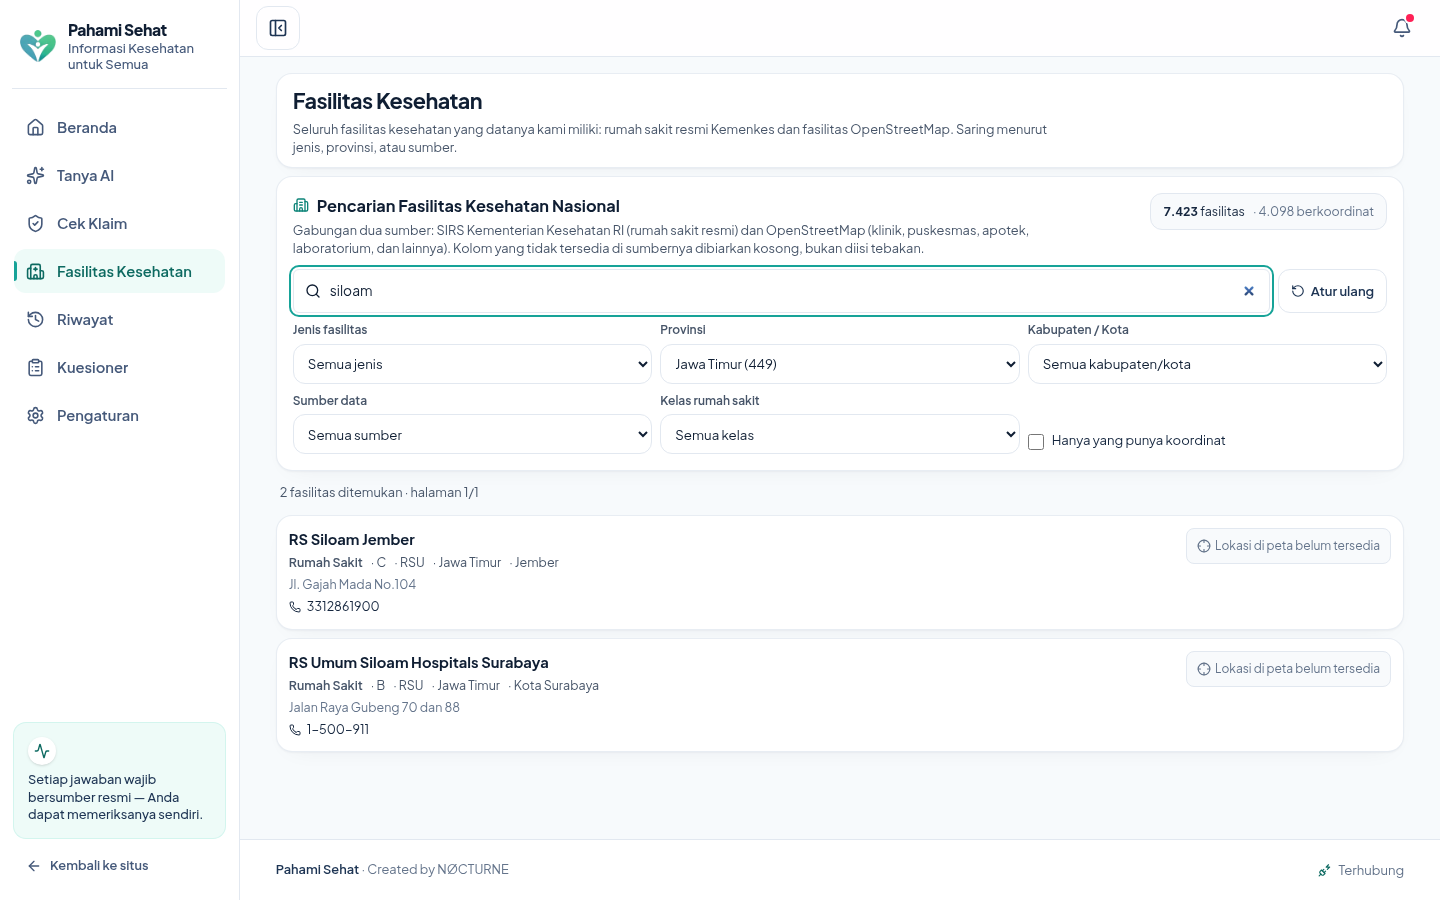
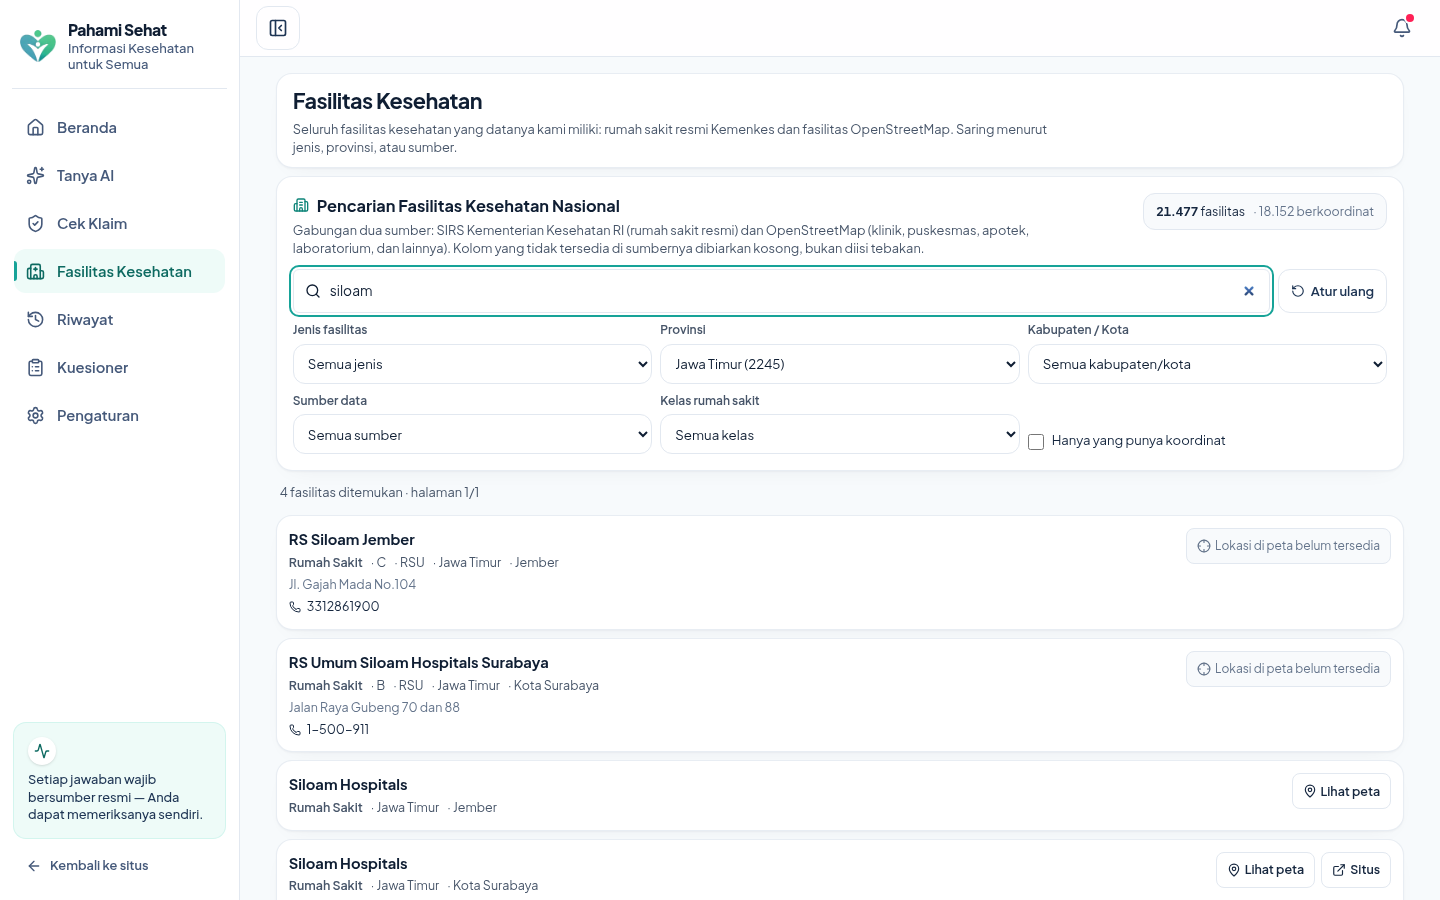
Perbarui angka faskes di README dan tangkapan layar (21.477)
Setelah tarikan nasional dan pemetaan kabupaten, isi database berubah dari
7.423 menjadi 21.477 fasilitas (3.325 RS SIRS + 18.152 OpenStreetMap yang
seluruhnya berkoordinat). Tangkapan layar diambil ulang dari aplikasi yang
berjalan; pencarian siloam kini menyaring 21.477 menjadi 79 hasil.

Perbaiki juga bug paginasi: nomor halaman dulu dibatasi 500 dengan angka
yang sama untuk perHalaman, sehingga meminta halaman 861 dari 860 diam-diam
mengembalikan isi halaman 500.

diff --git a/app/server/faskesNasional.js b/app/server/faskesNasional.js
@@ -22,8 +22,16 @@
 
 import { eksekusi } from './db.js'
 
-/** Batas atas satu halaman. */
-const MAKS_HALAMAN = 500
+/**
+ * Batas atas `perHalaman` (jumlah baris per halaman).
+ *
+ * JANGAN dipakai untuk membatasi NOMOR halaman. Versi sebelumnya memakai satu
+ * angka yang sama untuk keduanya, dan efeknya terukur 8 Nov 2026: pengguna
+ * meminta halaman 861 dari 860, nomornya "dibetulkan" menjadi 500, lalu
+ * server mengirim 25 baris HALAMAN 500 — data yang bukan permintaannya,
+ * tanpa satu pun tanda bahwa permintaannya di luar jangkauan.
+ */
+const MAKS_PER_HALAMAN = 500
 
 const KOLOM = `
   f.id, f.kode_osm, f.kode_rs, f.nama, f.kategori_id, k.label AS kategori,
@@ -150,9 +158,14 @@ export async function cariFaskesNasional({
 
   const where = syarat.length ? `WHERE ${syarat.join(' AND ')}` : ''
 
-  const di = Math.min(Math.max(Number(halaman) || 1, 1), MAKS_HALAMAN)
-  const n = Math.min(Math.max(Number(perHalaman) || 25, 1), MAKS_HALAMAN)
-  const offset = (di - 1) * n
+  /*
+   * Nomor halaman TIDAK dibatasi di sini. Kalau permintaan melewati halaman
+   * terakhir, hasilnya harus KOSONG — bukan dilipat ke halaman lain. `offset`
+   * yang besar cukup dikembalikan sebagai daftar kosong oleh MySQL.
+   */
+  const n = Math.min(Math.max(Number(perHalaman) || 25, 1), MAKS_PER_HALAMAN)
+  const diminta = Math.max(Number(halaman) || 1, 1)
+  const offset = (diminta - 1) * n
 
   // Urutan harus STABIL antar halaman, kalau tidak ada baris yang terlewat
   // atau muncul dua kali saat pengguna menekan "berikutnya".
@@ -178,7 +191,7 @@ export async function cariFaskesNasional({
   return {
     daftar: baris.map(rapikan),
     total,
-    halaman: di,
+    halaman: diminta,
     perHalaman: n,
     jumlahHalaman: Math.max(1, Math.ceil(total / n)),
   }

diff --git a/README.md b/README.md
@@ -18,7 +18,7 @@ sampai dan tidak dipahami oleh yang paling membutuhkan.
 > | Tanya AI + sumber | berjalan. Pencarian memakai kata kunci terpilih, bukan kalimat pengguna apa adanya |
 > | Sederhanakan teks | berjalan (4 tingkat baca), menjadi salah satu mode di komposer Tanya AI |
 > | Cek klaim | berjalan. Tiga putusan (`didukung`, `tidak_didukung`, `tidak_bisa_dipastikan`) dengan **lencana yang menyebut subjeknya** ("Klaim …"), satu kalimat penjelas per putusan, dan daftar sumber yang tidak pernah kosong tanpa keterangan. `tidak_didukung` hanya dipakai bila sumber resmi menyatakan sebaliknya |
-> | Fasilitas Kesehatan | berjalan. **Pencarian nasional seluruh faskes** (7.423 baris: 3.325 RS resmi SIRS Kemenkes + 4.098 fasilitas OpenStreetMap) dengan saringan jenis, provinsi, kabupaten/kota, sumber, dan kelas RS. Tab "Fasilitas Terdekat" dihapus 8 Nov 2026. Field yang tidak ada di sumbernya dibiarkan kosong, bukan dikarang |
+> | Fasilitas Kesehatan | berjalan. **Pencarian nasional seluruh faskes** (21.477 baris: 3.325 RS resmi SIRS Kemenkes + 18.152 fasilitas OpenStreetMap) dengan saringan jenis, provinsi, kabupaten/kota, sumber, dan kelas RS. Tab "Fasilitas Terdekat" dihapus 8 Nov 2026. Field yang tidak ada di sumbernya dibiarkan kosong, bukan dikarang |
 > | Suara dibacakan | **berjalan sebagai suara neural Microsoft — hanya di versi yang dijalankan di komputer sendiri.** Diukur ulang 20 Okt 2026: `POST /api/suara` menjawab `200 audio/mpeg`, berkas 24 kHz mono 48 kbps, 17.424 byte untuk satu kalimat, 0,80 detik. Di Vercel tetap **`502`** (diukur ulang 20 Okt 2026) karena fungsi serverless tidak bisa mempertahankan WebSocket — batas platform, bukan bug. Rincian: `app/server/suara.js` |
 > | Input suara (bicara) | berjalan lewat Web Speech API bawaan peramban. **Butuh Chrome atau Edge**: Brave memblokir layanan suara daring Google, dan Firefox belum menyediakannya. Butuh konteks aman (`https://` atau `localhost`) |
 > | Pindai foto / OCR | berjalan, **seluruhnya di peramban**. Foto tidak pernah dikirim ke server, dan fitur ini tetap jalan tanpa internet. Batasnya disebut apa adanya di aplikasi: alat bantu baca, bukan pengganti dokumen asli |
@@ -94,8 +94,8 @@ bedanya nyaris tak terlihat karena teksnya memang sudah gelap:
 Halaman ini **berubah 8 Nov 2026**. Sebelumnya ada dua tab — "Fasilitas
 Terdekat" (pencarian radius di atas peta) dan "Rumah Sakit Nasional" (3.325 RS
 SIRS). Tab radius dihapus, dan daftar nasional diperluas menjadi **seluruh
-fasilitas kesehatan** yang datanya kami miliki: **7.423 baris** — 3.325 rumah
-sakit resmi Kemenkes (SIRS) dan 4.098 fasilitas OpenStreetMap (klinik,
+fasilitas kesehatan** yang datanya kami miliki: **21.477 baris** — 3.325 rumah
+sakit resmi Kemenkes (SIRS) dan 18.152 fasilitas OpenStreetMap (klinik,
 puskesmas, apotek, laboratorium, praktik mandiri, dan lainnya).
 
 Saringan yang tersedia: nama/alamat, jenis fasilitas (10 kategori), provinsi,
@@ -113,9 +113,9 @@ kode — kategori atau provinsi baru ikut muncul tanpa mengubah apa pun.
 
 ![Tampilan ponsel](docs/tangkapan-layar/faskes-4-hp.png)
 
-Yang perlu diperhatikan: angka di kepala panel (**7.423 fasilitas · 4.098
+Yang perlu diperhatikan: angka di kepala panel (**21.477 fasilitas · 18.152
 berkoordinat**) berasal dari database dan ikut berubah kalau datanya berubah;
-pencarian "siloam" menyaring dari 7.423 menjadi **54** hasil; memilih provinsi
+pencarian "siloam" menyaring dari 21.477 menjadi **79** hasil; memilih provinsi
 mengaktifkan dropdown kabupaten/kota; dan **sebagian besar rumah sakit SIRS
 tidak punya koordinat** — baris seperti itu tetap ditampilkan dengan penanda
 "Lokasi di peta belum tersedia", bukan diberi titik karangan.
@@ -161,7 +161,8 @@ Tangkapan di atas diambil dari aplikasi yang benar-benar berjalan lewat
 | [`isi-wilayah.mjs`](isi-wilayah.mjs) | Pengisi tabel `wilayah` dari `wilayah.id` (38 provinsi + 514 kabupaten/kota + **7.285 kecamatan**). |
 | [`petakan-wilayah.mjs`](petakan-wilayah.mjs) | Memetakan nama wilayah SIRS ke kode wilayah resmi; 513/513 berhasil, 6 alias eksplisit. |
 | [`impor-statistik-faskes.mjs`](impor-statistik-faskes.mjs) | **Pengisi statistik fasilitas nasional** — 6 kategori Kemenkes 2024 + pembanding BPJS, beserta 4 rujukan pengembangan. `--cari`/`--kering`, aman diulang. Lihat [Statistik fasilitas nasional](#statistik-fasilitas-nasional--angka-resmi-dan-artinya). |
-| [`lengkapi-wilayah-faskes.mjs`](lengkapi-wilayah-faskes.mjs) | **Pengisi provinsi/kabupaten untuk 4.098 faskes OpenStreetMap** lewat geocoding balik Nominatim (1 permintaan/detik, ±70 menit). Memakai kode ISO 3166-2 karena wilayah DKI Jakarta tidak punya field `state`. Aman diulang: hanya baris yang provinsinya masih kosong yang diproses; `--kering` dan `--batas N` untuk mencoba. |
+| [`tarik-faskes-nasional.mjs`](tarik-faskes-nasional.mjs) | **Penarik faskes nasional dari OpenStreetMap** — 38 provinsi lewat kode ISO 3166-2 (nama provinsi didapat tanpa geocoding), kueri `nwr` karena apotek/klinik sering dipetakan sebagai bangunan. Idempoten lewat `kode_osm` unik. ±42 menit untuk seluruh Indonesia; `--provinsi ID-JB` untuk satu provinsi. |
+| [`petakan-kabupaten-faskes.mjs`](petakan-kabupaten-faskes.mjs) | **Pengisi kabupaten/kota dari batas wilayah resmi** — geoBoundaries ADM2 (519 kab/kota, sumber BPS, CC BY 3.0 IGO), titik-di-dalam-poligon. Terukur: 17.684 baris terisi, 20 tidak jatuh di poligon mana pun (dibiarkan NULL). |
 | [`panaskan-faskes.mjs`](panaskan-faskes.mjs) | **Pemanas simpanan faskes sebelum demo** — mengisi `fasilitas` + `cakupan_faskes` untuk lokasi yang akan ditunjukkan, supaya tombol Cari menjawab dari database. Lihat [Tombol "Cari"](#tombol-cari-tidak-lagi-membuat-juri-menunggu). |
 | [`panen-pengetahuan.mjs`](panen-pengetahuan.mjs) | **Pengisi database pengetahuan** — mengambil teks asli dari sumber resmi (bukan karangan AI). Lihat [Di mana datanya disimpan](#di-mana-datanya-disimpan). |
 | [`jalankan-online.sh`](jalankan-online.sh) | Build → server → Cloudflare Tunnel → cetak alamat publik. Lihat [Membuka aplikasi ke internet](#membuka-aplikasi-ke-internet-tapi-tetap-berjalan-di-laptop-sendiri). |
@@ -666,7 +667,7 @@ lebih berbahaya daripada tidak ada penyaring.
 | POST | `/api/suara` | teks → MP3 (suara neural) |
 | GET | `/api/faskes` | fasilitas kesehatan di sekitar satu titik (Overpass/OpenStreetMap) |
 | GET | `/api/faskes/kategori` | sepuluh kategori fasilitas yang dipakai antarmuka |
-| GET | `/api/faskes/nasional` | **pencarian seluruh faskes nasional** — 7.423 baris (SIRS + OpenStreetMap); `?cari=&kategori=&provinsi=&kabupaten=&sumber=&kelas=&koordinat=1&halaman=&perHalaman=&urut=` |
+| GET | `/api/faskes/nasional` | **pencarian seluruh faskes nasional** — 21.477 baris (SIRS + OpenStreetMap); `?cari=&kategori=&provinsi=&kabupaten=&sumber=&kelas=&koordinat=1&halaman=&perHalaman=&urut=` |
 | GET | `/api/faskes/nasional/filter` | pilihan saringan nasional dari database: kategori, provinsi, kabupaten, sumber, kelas, jenis, kepemilikan |
 | GET | `/api/faskes/nasional/ringkasan` | jumlah total, berkoordinat, SIRS, OSM, tanpa provinsi, dan per kategori |
 | GET | `/api/faskes/nasional/:id` | rincian satu fasilitas nasional menurut id database |
